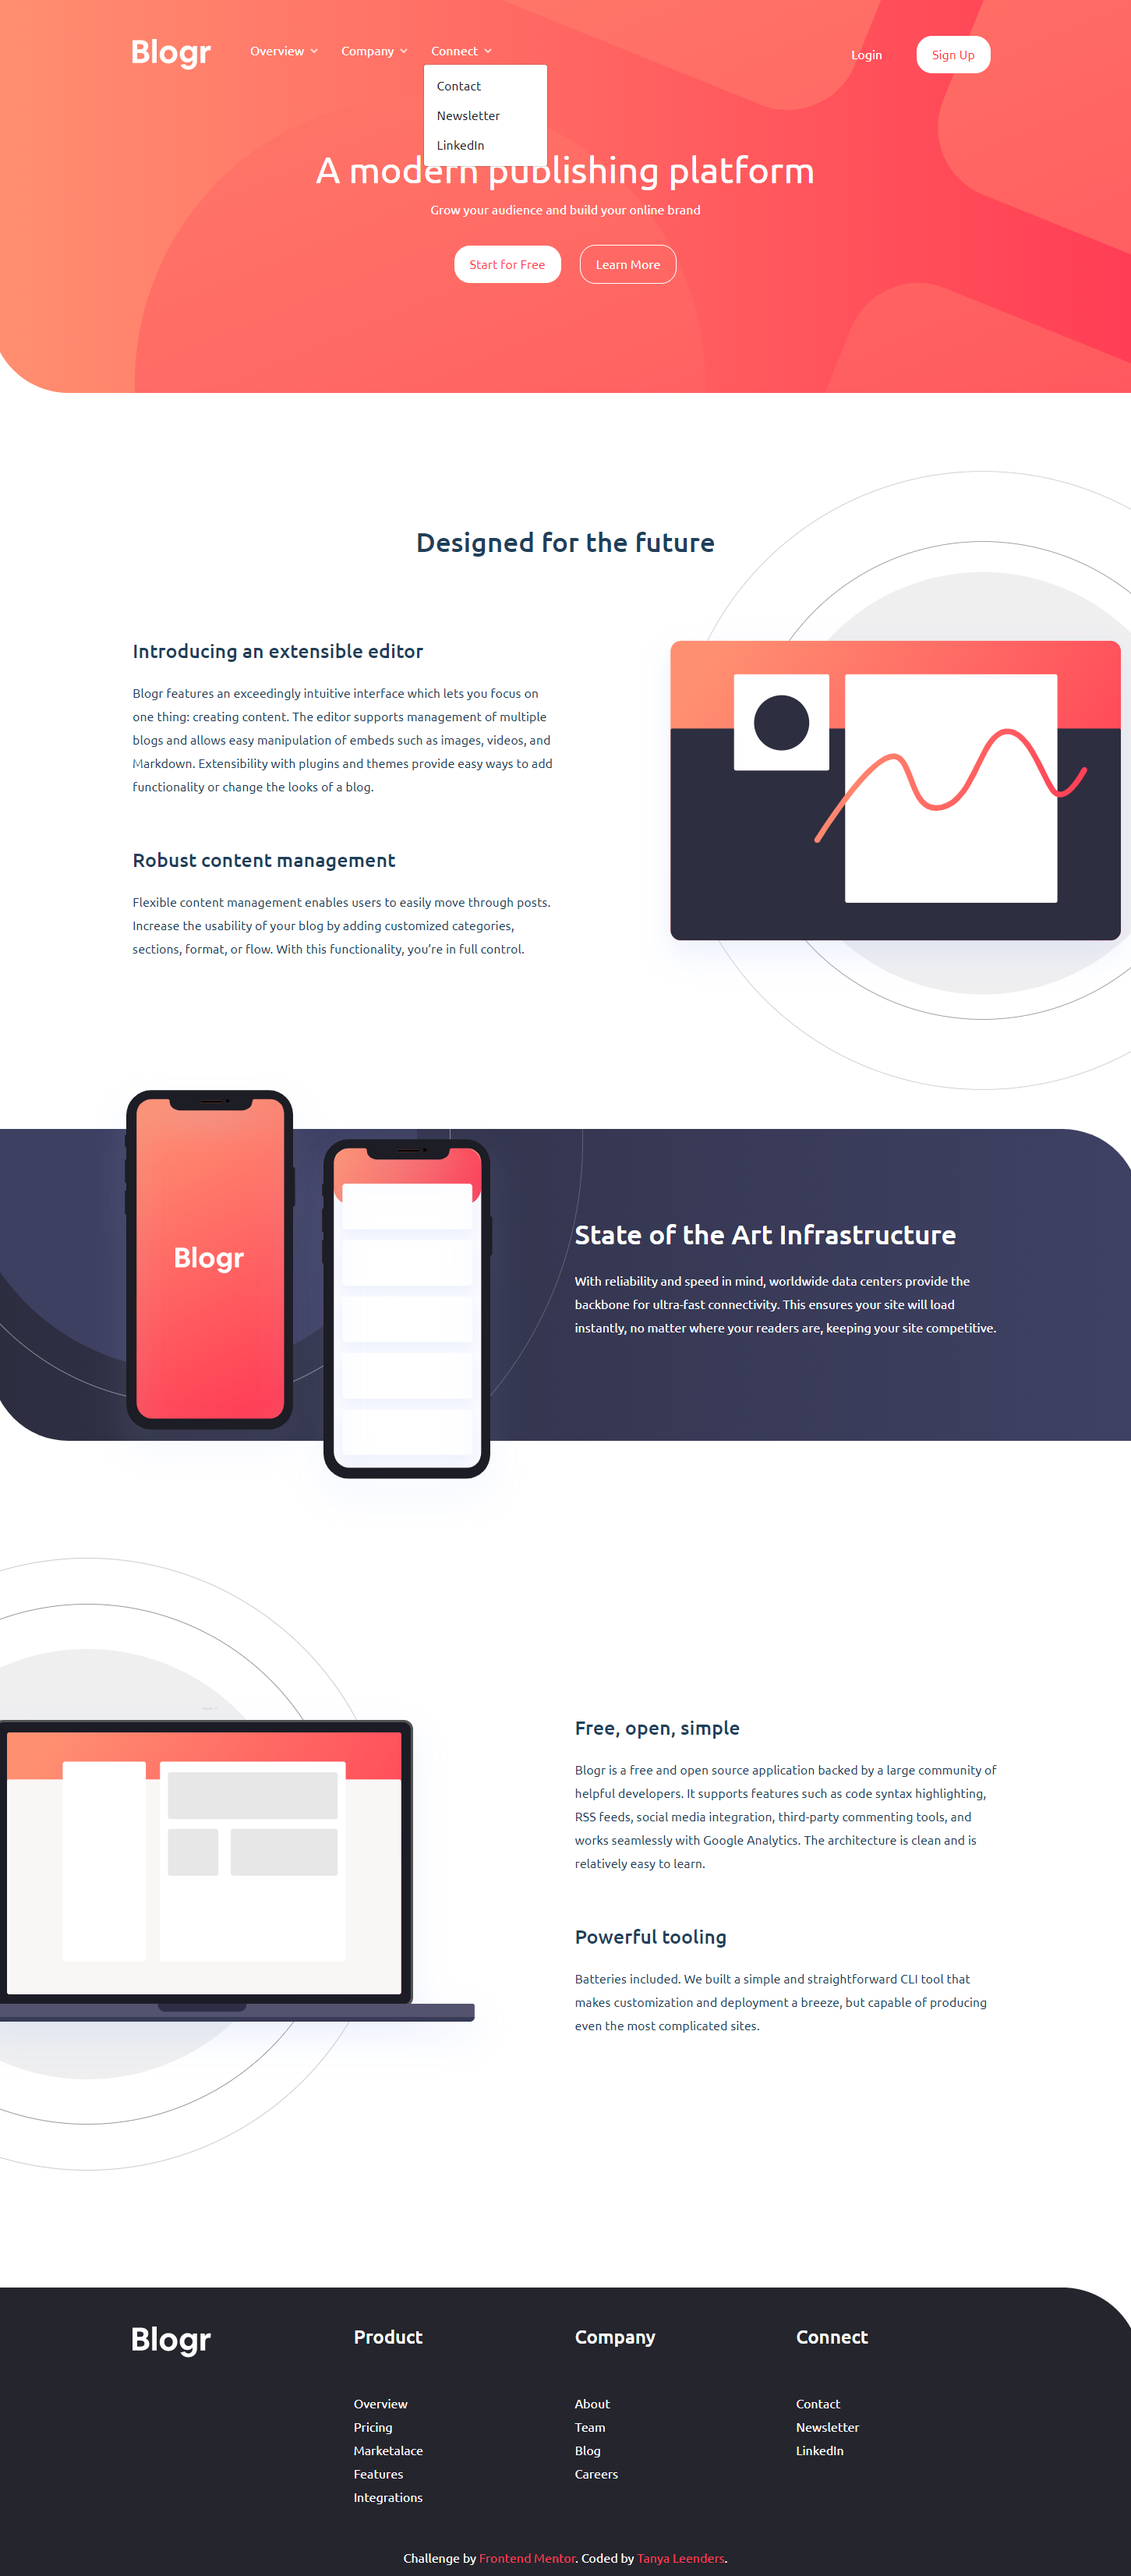
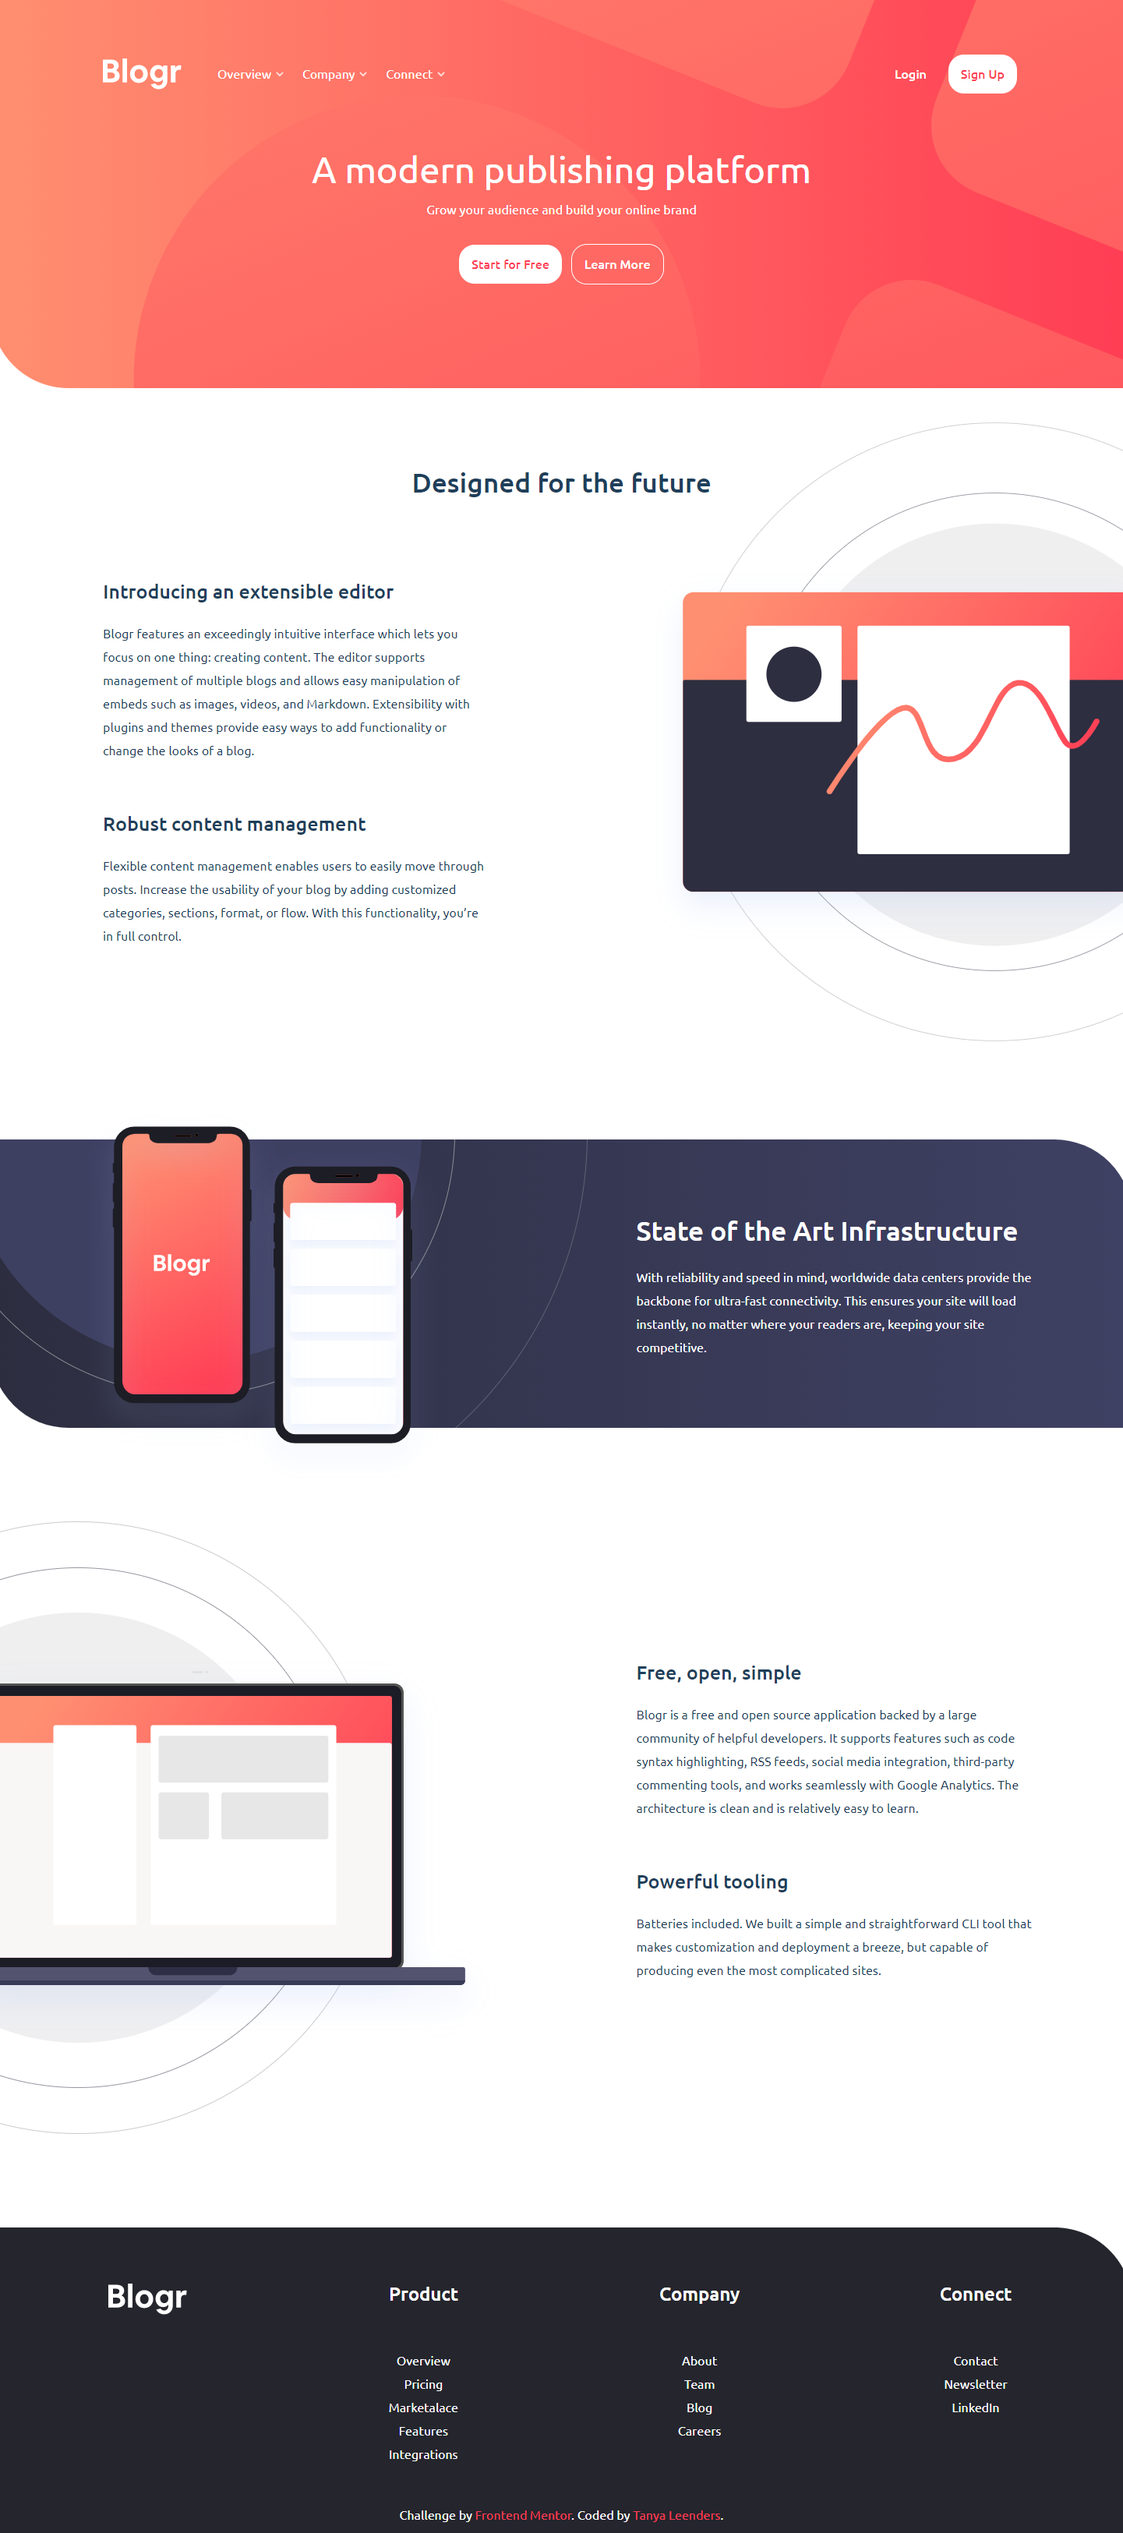
correction html, add mobile solution and showed it in readme

diff --git a/index.html b/index.html
@@ -101,7 +101,7 @@
             <div class="second-sec-img-div col-12 col-md-6">
                 <img class="second-sec-img" src="./images/illustration-phones.svg" alt="illustration phones">
             </div>
-            <div class="col-12 col-md-6 py-5 mt-5 mt-md-0 px-lg-5 text-center">
+            <div class="col-12 col-md-6 py-5 mt-5 mt-md-0 px-lg-5">
                 <h2 class="pb-3 pt-5 pt-md-0 px-lg-5">State of the Art Infrastructure</h2>
                 <p class="px-lg-5">With reliability and speed in mind, worldwide data centers provide the backbone for ultra-fast connectivity. 
                     This ensures your site will load instantly, no matter where your readers are, keeping your site competitive.</p>
@@ -114,7 +114,7 @@
                 <img class="third-sec-img-desk d-none d-lg-block" src="./images/illustration-laptop-desktop.svg" alt="illustration laptop blog">
                 <img class="third-sec-img-mob d-flex d-lg-none" src="./images/illustration-laptop-mobile.svg" alt="illustration laptop blog">
             </div>
-            <div class="col-12 col-lg-6 text-center pb-5 px-lg-5">
+            <div class="col-12 col-lg-6 pb-5 px-lg-5">
                 <h3 class="pt-5 pb-3  px-lg-5">Free, open, simple</h3>
                 <p class=" px-lg-5">Blogr is a free and open source application backed by a large community of helpful developers. It supports 
                     features such as code syntax highlighting, RSS feeds, social media integration, third-party commenting tools, 

diff --git a/README.md b/README.md
@@ -24,7 +24,7 @@ Users should be able to:
 - See hover states for all interactive elements on the page
 
 ### Screenshot
-![Desktop view](/images/solution-desktop-view.png)
+![Desktop view](/images/solution-desktop-view.png) ![Mobile view](/images/solution-mobile-view.png)
 
 
 ## Built with
